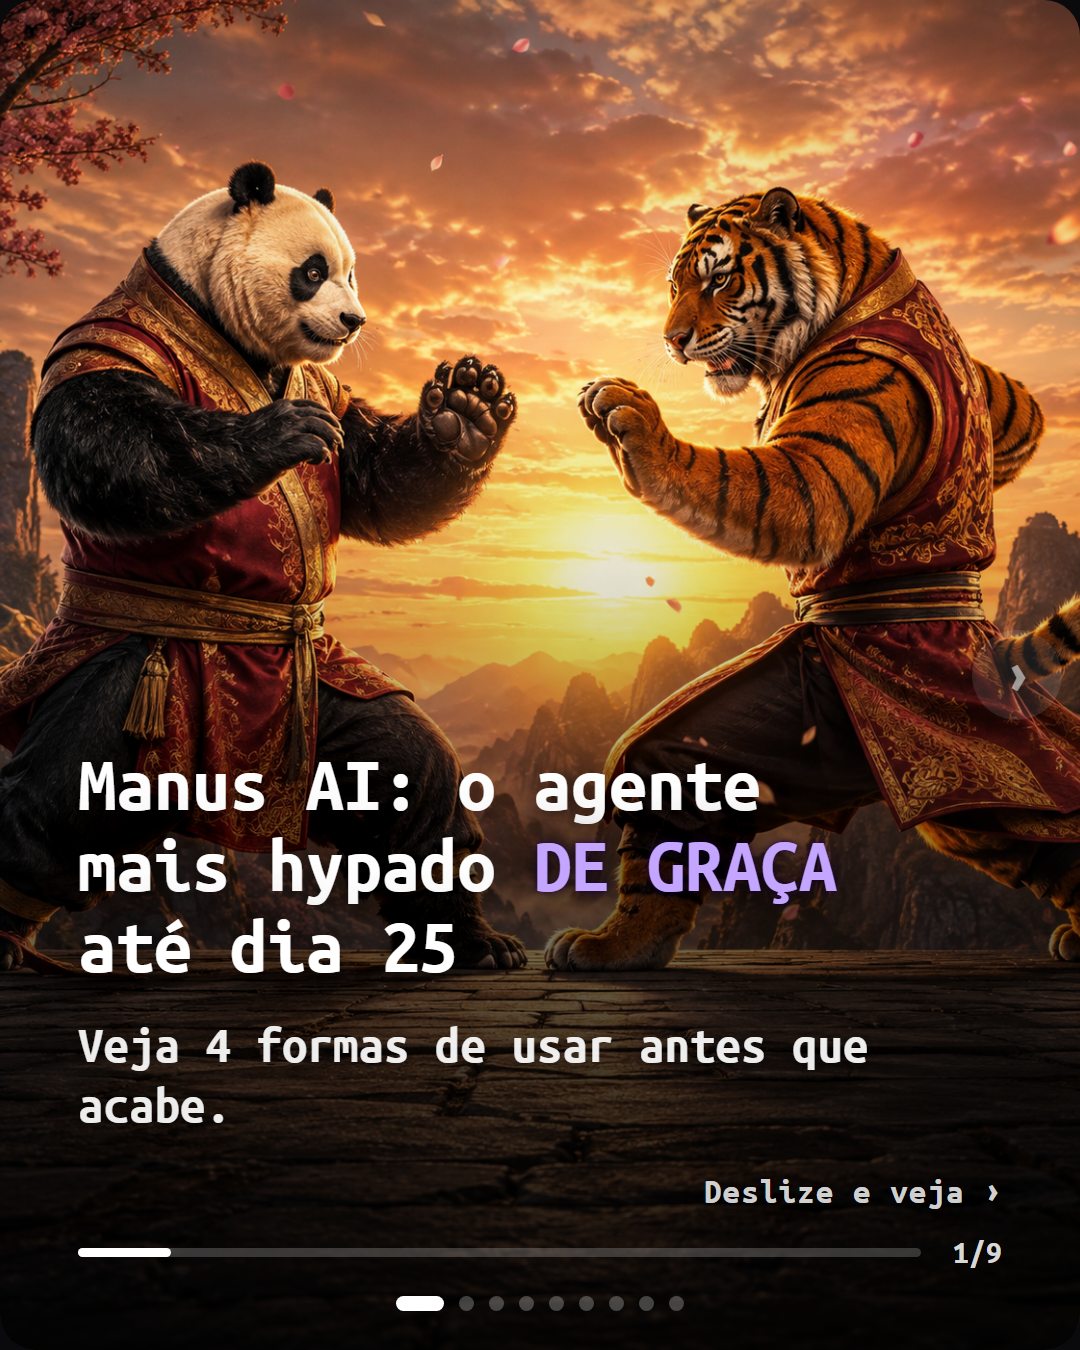
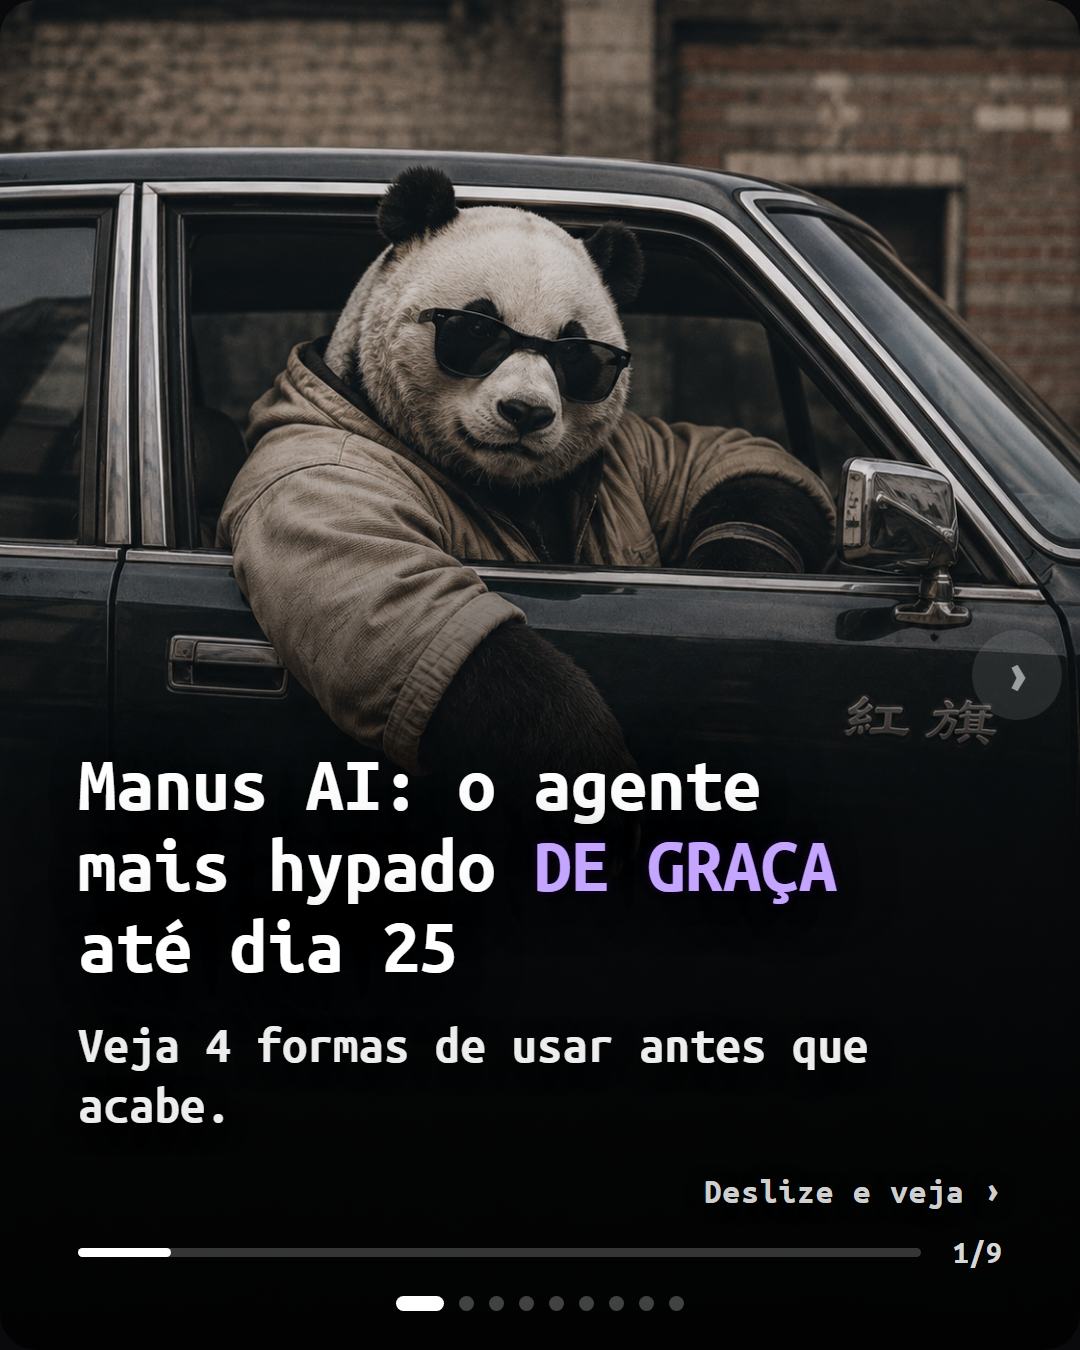
feat(dobro): capa nova do manus-gratis, o panda no Hongqi
Troca pedida pelo dono. A anterior era panda e tigre de kung fu numa
plataforma de pedra; a nova é o panda de óculos escuros e jaqueta debruçado
na janela de um Hongqi preto, com o 红旗 em relevo na porta — o chinês do
Manus agora entra pelo carro, não pelo cenário.

Encaixa sem bgPos: o panda ocupa os dois terços de cima e o terço de baixo é
a porta, preta e vazia, que é onde o texto do template entra. O título branco
cai sobre a região mais escura da foto, então a legibilidade não depende do
scrim. Título quebra nas 3 linhas pedidas, sem órfã, e a pata para acima da
primeira linha.

Só o slide-1 mudou; os outros 8 saíram idênticos. Régua: 90/100 FORTE.

diff --git a/apps/dobro/server/carrossel/carrosseis/manus-gratis.ts b/apps/dobro/server/carrossel/carrosseis/manus-gratis.ts
@@ -68,14 +68,21 @@ export const manusGratis: Carrossel = {
    */
   linkPresente: 'https://app.notion.com/p/3c16dd01fb4881d495a8d674b0600881',
   /**
-   * Capa gerada pelo dono em 19/08/2026: panda e tigre de roupa de kung fu num
-   * confronto sobre plataforma de pedra, com pôr do sol dourado nas montanhas.
-   * O chinês vem do próprio Manus, que é uma empresa chinesa.
+   * Capa trocada pelo dono em 20/08/2026 (a anterior era panda e tigre de kung fu
+   * numa plataforma de pedra): panda de óculos escuros e jaqueta debruçado na
+   * janela de um Hongqi preto, com a marca 红旗 ("bandeira vermelha") em relevo na
+   * porta. O chinês vem do
+   * próprio Manus, que é uma empresa chinesa, e agora entra pelo carro em vez de
+   * pelo cenário.
    *
    * Não é personagem de estúdio nenhum, é criatura nossa, na mesma família do
-   * gambá do 7-repos e do macaco do cara-de-caro. A arte já nasceu com os dois
-   * animais nos dois terços de cima e a plataforma vazia embaixo, que é
-   * exatamente onde o texto entra.
+   * gambá do 7-repos e do macaco do cara-de-caro.
+   *
+   * ENCAIXE (memória capa-gerada-por-ia-encaixe): o panda ocupa os dois terços de
+   * cima e o terço de baixo é a porta do carro, preta e vazia — que é justamente
+   * onde o texto do template entra. Por isso NÃO precisa de `bgPos`: a arte já
+   * nasceu com o rodapé livre, e o escuro da porta dá contraste pro título branco
+   * sem depender do scrim.
    */
   bgImage: 'server/carrossel/assets/manus-gratis/capa.png',
   slides: [
